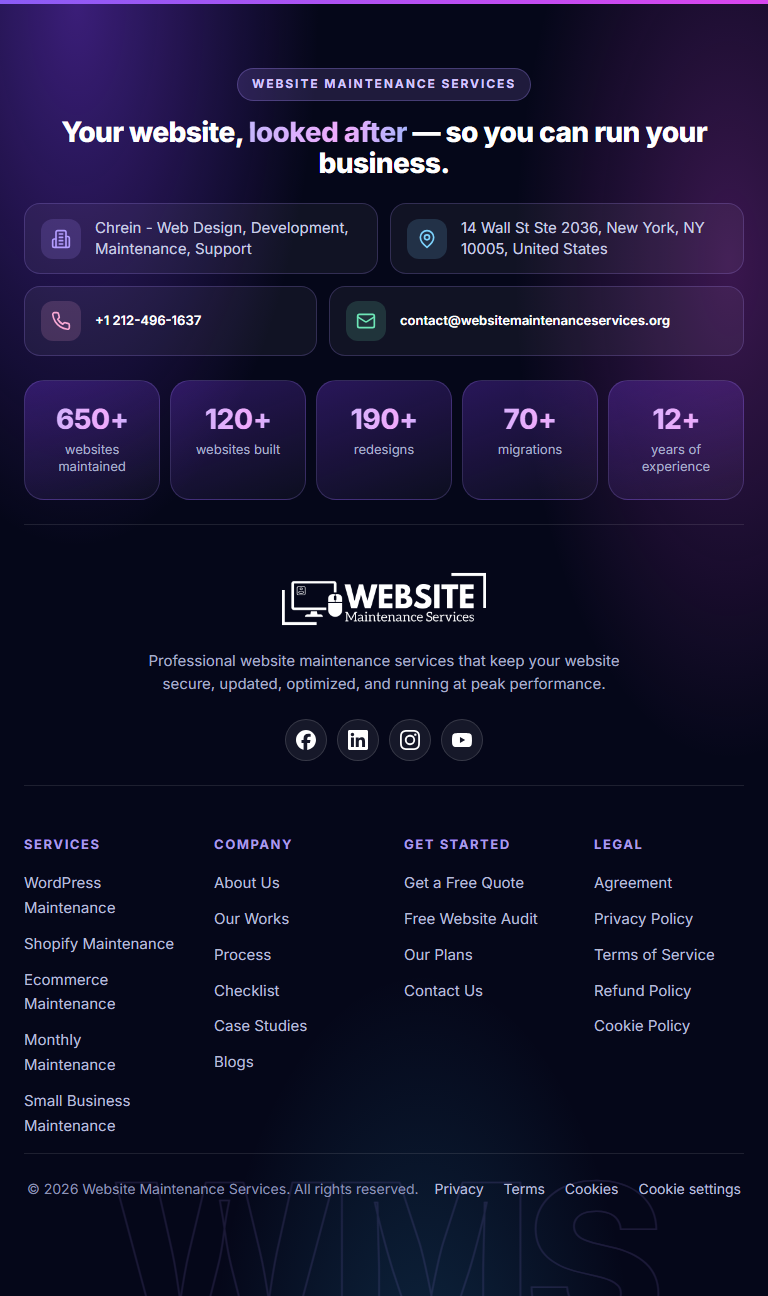
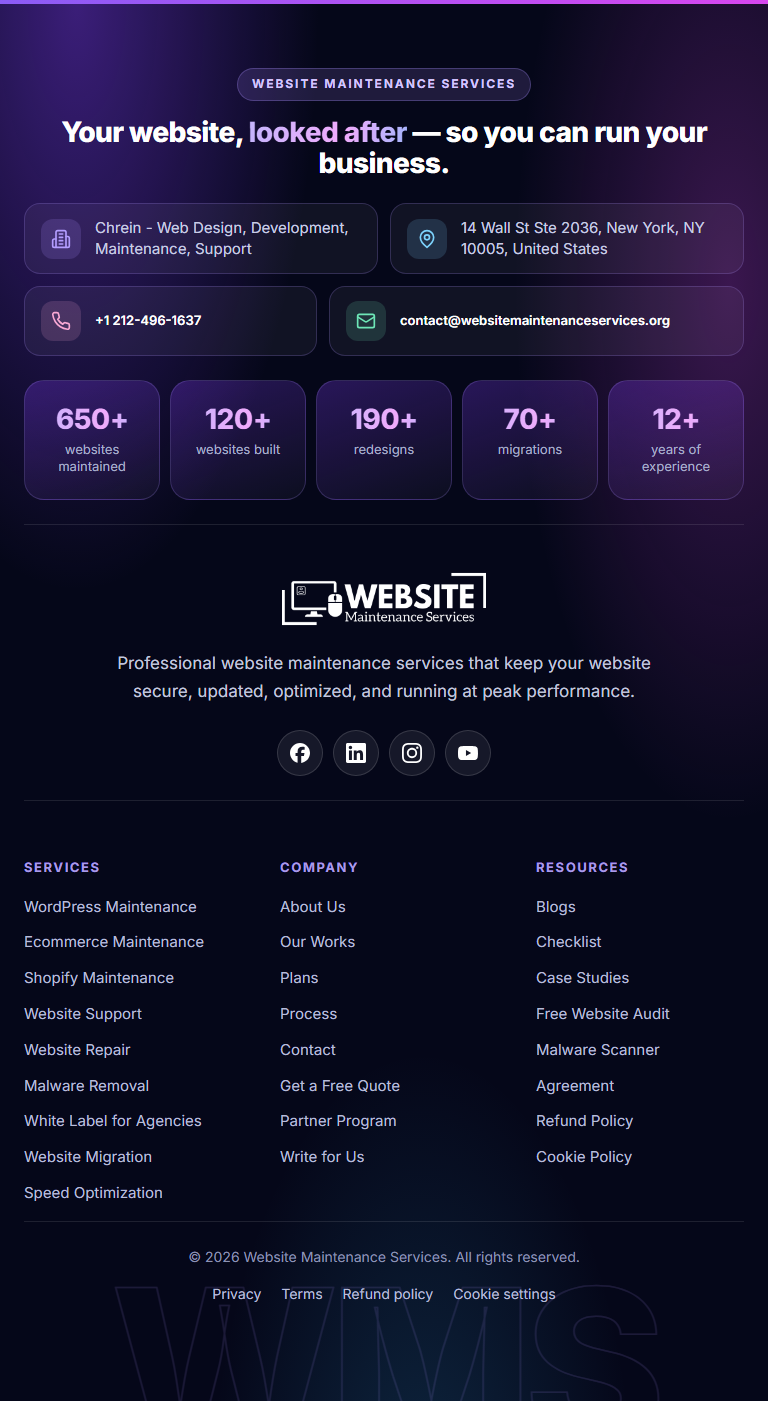
Update the footer to the owner's latest zip: 3 link groups, new CSS
Services, Company and Resources bring back the links the earlier footer
dropped; no page is unreachable. WhatsApp links filtered out of the
migration's site-chrome.json.

diff --git a/src/styles/footer.css b/src/styles/footer.css
@@ -1,4 +1,4 @@
-/* Footer: the owner's final design (wms-footer-final.zip, 2026-11-04). Dark in both themes; desktop panel, tablet tiles, phone accordion. */
+/* Footer: the owner's final design (wms-footer-final.zip, latest, 2026-11-04). Dark in both themes; desktop panel, tablet tiles, phone accordion. */
 .wmsf{--bg:#050719;--ink:#c9cde4;--mut:#a9afca;--line:rgba(255,255,255,.1);--tile:rgba(255,255,255,.05);--tl:rgba(167,139,250,.22);--h4:#a99be8;--g:linear-gradient(100deg,#c4b5fd,#f0abfc 60%,#a5b4fc);
  position:relative;isolation:isolate;overflow:hidden;margin-top:0;padding:64px 0 32px;background:var(--bg);color:var(--ink);font-size:1rem;line-height:1.55;border-top:4px solid;border-image:linear-gradient(115deg,#8b5cf6,#d946ef 55%,#6366f1) 1}
 .wmsf *,.wmsf *::before,.wmsf *::after{box-sizing:border-box}
@@ -22,11 +22,11 @@
 .wf-ic{flex:none;width:40px;height:40px;display:grid;place-items:center;border-radius:12px}.wf-ic svg{display:block}
 .wf-c1{background:rgba(167,139,250,.18);color:#b39dff}.wf-c2{background:rgba(125,211,252,.16);color:#7dd3fc}.wf-c3{background:rgba(249,168,212,.16);color:#f9a8d4}.wf-c4{background:rgba(110,231,183,.16);color:#6ee7b7}
 /* brand + links */
-.wf-grid{display:grid;grid-template-columns:1.4fr 1fr 1fr 1fr 1fr;gap:40px;padding:48px 0 16px}
-.wf-logo{height:50px;width:auto;display:block;filter:brightness(0) invert(1)}
-.wf-brand p{color:var(--mut);margin:16px 0 24px;font-size:.9375rem;max-width:320px}
+.wf-grid{display:grid;grid-template-columns:1.6fr 1.2fr 1fr 1fr;gap:48px;padding:48px 0 16px}
+.wf-logo{height:60px;width:auto;display:block;filter:brightness(0) invert(1)}
+.wf-brand p{color:#c3c7df;margin:20px 0 28px;font-size:1.125rem;line-height:1.7;max-width:400px;text-align:justify;text-justify:inter-word;hyphens:manual}
 .wf-soc{display:flex;gap:10px;flex-wrap:wrap}
-.wf-sb{display:grid;place-items:center;width:42px;height:42px;border-radius:50%;background:rgba(255,255,255,.07);border:1px solid rgba(255,255,255,.14);color:#fff;transition:transform .2s,background .2s}
+.wf-sb{display:grid;place-items:center;width:46px;height:46px;border-radius:50%;background:rgba(255,255,255,.07);border:1px solid rgba(255,255,255,.14);color:#fff;transition:transform .2s,background .2s}
 .wf-sb:hover{transform:translateY(-3px)}.wf-sb svg{display:block}
 .wf-sb-facebook:hover{background:#0866FF}.wf-sb-linkedin:hover{background:#0A66C2}.wf-sb-instagram:hover{background:linear-gradient(45deg,#f09433,#dc2743,#bc1888)}.wf-sb-youtube:hover{background:#F00}
 .wf-col summary{list-style:none;pointer-events:none;cursor:default;font-size:.8125rem;font-weight:700;letter-spacing:.12em;text-transform:uppercase;color:var(--h4);margin:0 0 16px}
@@ -50,9 +50,9 @@
  .wf-stats{grid-template-columns:repeat(5,1fr);gap:10px;justify-content:stretch;margin-bottom:8px}
  .wf-stats li,.wf-stats li:first-child{padding:24px 8px;border:1px solid var(--tl);border-radius:20px;background:linear-gradient(160deg,rgba(124,58,237,.3),rgba(255,255,255,.03))}
  .wf-stats b{font-size:1.75rem}.wf-stats span{white-space:normal;color:var(--mut);margin-top:8px}
- .wf-grid{grid-template-columns:repeat(4,1fr);padding-top:40px;border-top:1px solid var(--line);margin-top:24px}
+ .wf-grid{grid-template-columns:repeat(3,1fr);padding-top:40px;border-top:1px solid var(--line);margin-top:24px}
  .wf-brand{grid-column:1/-1;display:flex;flex-direction:column;align-items:center;text-align:center;padding-bottom:24px;border-bottom:1px solid var(--line);margin-bottom:8px}
- .wf-logo{height:68px}.wf-brand p{max-width:680px;text-wrap:balance;margin:16px auto 24px}.wf-soc{justify-content:center}
+ .wf-logo{height:68px}.wf-brand p{max-width:680px;text-wrap:balance;margin:16px auto 24px;font-size:1.0625rem;text-align:center;hyphens:manual}.wf-soc{justify-content:center}
  .wf-legal{justify-content:center;text-align:center}
 }
 /* MOBILE (B): stat cards 2x2 + wide, stacked contact, accordion links */
@@ -62,7 +62,7 @@
  .wf-head .wf-title{font-size:1.75rem}
  .wf-stats{grid-template-columns:1fr 1fr}
  .wf-stats li,.wf-stats li:first-child{padding:14px 10px}.wf-stats li:last-child{grid-column:1/-1}
- .wf-contact{grid-template-columns:1fr}.wf-ci,.wf-ci:nth-child(3),.wf-ci:nth-child(4){grid-column:auto}.wf-ci{padding:12px}.wf-ci a{font-size:.75rem;overflow-wrap:anywhere}
+ .wf-contact{grid-template-columns:1fr}.wf-ci,.wf-ci:nth-child(3),.wf-ci:nth-child(4){grid-column:1/-1}.wf-ci{padding:12px}.wf-ci a{font-size:.75rem;overflow-wrap:anywhere}
  .wf-grid{display:block;padding:32px 0 16px;margin-top:24px}
  .wf-brand{margin-bottom:24px}.wf-logo{height:60px}
  .wf-col{border-bottom:1px solid var(--line)}

diff --git a/CHANGELOG.md b/CHANGELOG.md
@@ -274,3 +274,11 @@
 - Fixed in the design's CSS: on phones the phone and email tiles kept a tablet column span. The phone accordion now re-checks the width on load and resize, so the link groups are always open on tablet and desktop.
 - WhatsApp and +880: not shown anywhere on the site. The two wa.me links exist only in src/data/site-chrome.json, the old site's link record used by the migration, not rendered.
 - design-qa.mjs: footer check expects 4 link groups and the phone/email in the footer; no GMB block on any page.
+
+## 2026-11-04: footer updated to the latest zip
+- Link columns are now 3 groups, from the latest wms-footer-final.zip: Services (9), Company (8), Resources (8). Small Business Maintenance and Monthly Maintenance left the footer (the pages stay, linked from elsewhere).
+- Links back in the footer on every page: Website Support, Website Repair, Malware Removal (/wordpress-malware-removal-service/, owner's choice over the blog post), White Label for Agencies, Website Migration, Speed Optimization, Partner Program, Write for Us, Malware Scanner, Plans. Partner program, Write for us and Malware scanner have no body links, so the footer is their only link; link report: 0 pages unreachable, all within 2 clicks of the homepage.
+- footer.css replaced with the latest: desktop grid 1.6fr 1.2fr 1fr 1fr; tagline 18px, justified on desktop (hyphens: manual), centred on tablet and phone; 60px logo, 46px social buttons; phone contact tiles full width (now in the owner's CSS).
+- Bottom bar: Privacy, Terms, Refund policy, Cookie settings. Cookie settings stays the button that reopens the cookie choice (consent requirement), not a link; Cookie Policy is in Resources.
+- WhatsApp: the two wa.me links are filtered out in migrate-content.mjs, so src/data/site-chrome.json no longer has them. No WhatsApp link or +880 number anywhere in the site. There is no floating WhatsApp button; the only sticky bar is the phone "Get a free quote" bar on the homepage.
+- Font: the site keeps Inter; the zip previews use Plus Jakarta Sans.

diff --git a/STATUS.md b/STATUS.md
@@ -38,7 +38,7 @@ The owner finds the current design too plain and outdated: mostly text lists, sm
 ## Owner decisions (2026-11-02)
 - Restored, confirmed true: "+142% Growth", "Page 1 Top 3", "98/100 Passed", "99/100 Passed", "Expert Developers: Certified, experienced team", the Altitude Care numbers, H2 "Real Maintenance Results, Backed by Numbers", "99.9% uptime guarantee". Build checks that blocked them are gone. "Certified, Experienced, Trusted." and "Google Partner" stay.
 - Company facts, contact details and reach: `CLAIMS-AND-DESIGN.md` section A; values in `src/data/site.json`. No Dhaka, Bangladesh or +880 about the company.
-- No GMB block (owner, 2026-11-04): the company name, address, phone and email are in the footer on every page. Every page ends: content → final CTA box → footer.
+- No GMB block (owner, 2026-11-04): the company name, address, phone and email are in the footer on every page. Every page ends: content → final CTA box → footer. Footer: 3 link groups (Services, Company, Resources), latest owner zip.
 - Service cards: no "5-Star Service" line (already gone).
 - General mentions of Bangladesh stay in 5 blog posts (CDN regions, .bd domains, Shopify pricing) and one portfolio link, since they are not about the company. The owner can ask to remove them.
 

diff --git a/reports/link-report.md b/reports/link-report.md
@@ -2,12 +2,10 @@
 
 Pages: 92
 
-Click depth from the homepage: {"0":1,"1":45,"2":43,"unreachable":3}
+Click depth from the homepage: {"0":1,"1":48,"2":43}
 
-## Not reachable by any link (3)
-- /website-malware-scanner/
-- /wms-partner-program/
-- /write-for-us/
+## Not reachable by any link (0)
+None
 
 ## Deeper than 3 clicks (0)
 None
